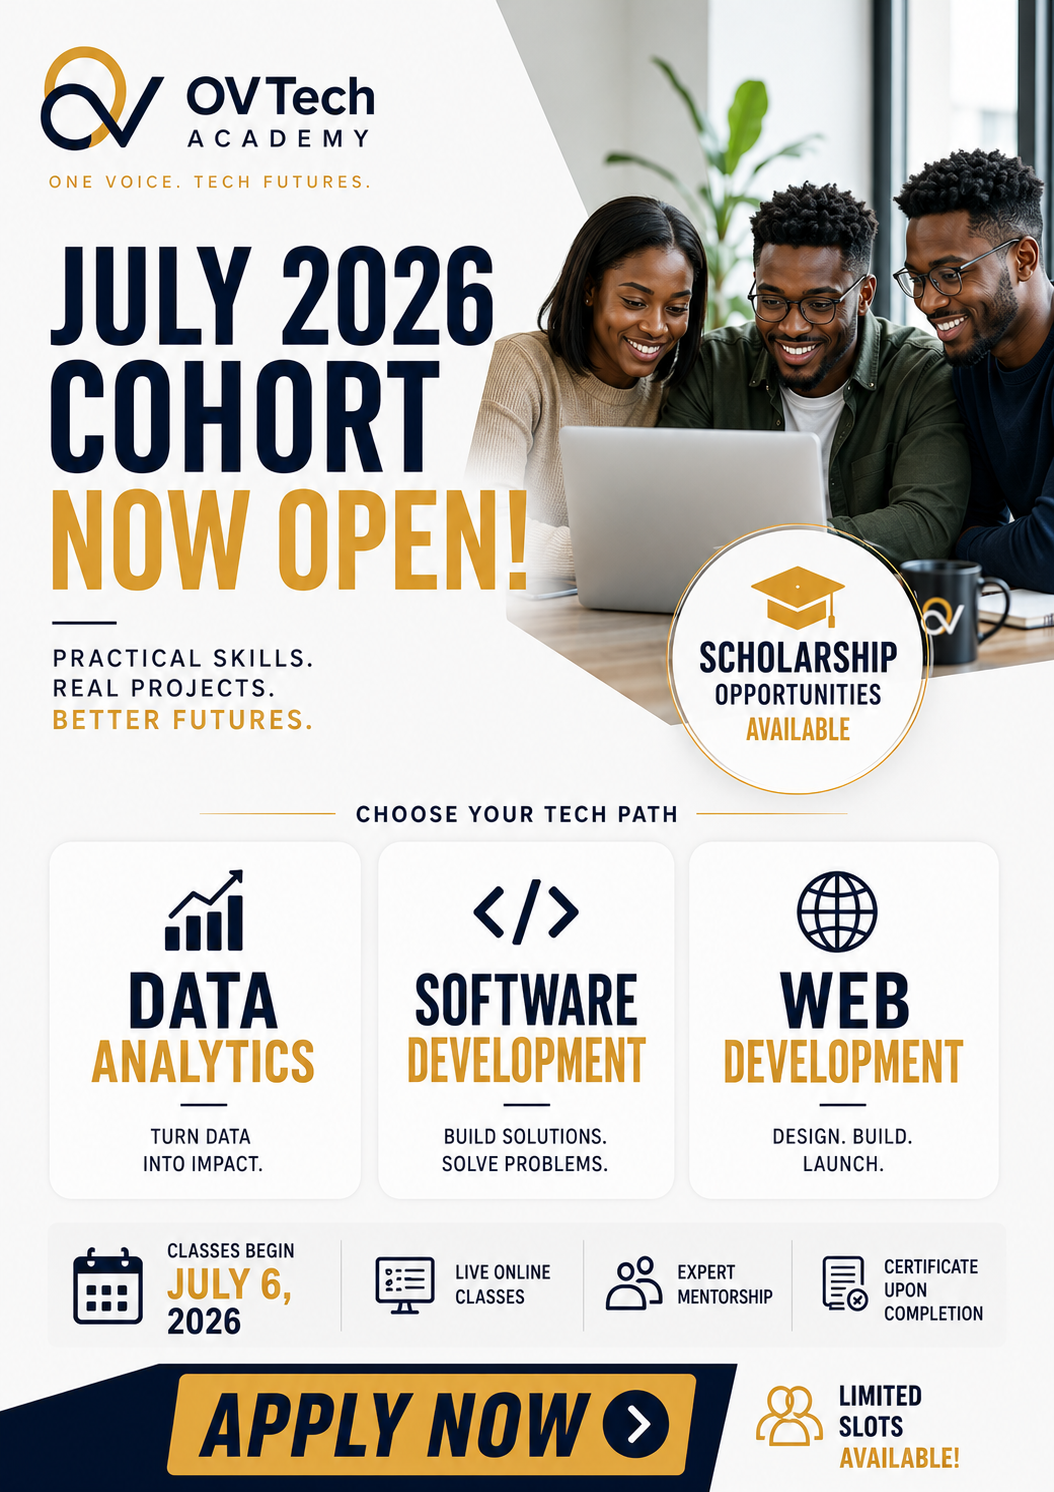
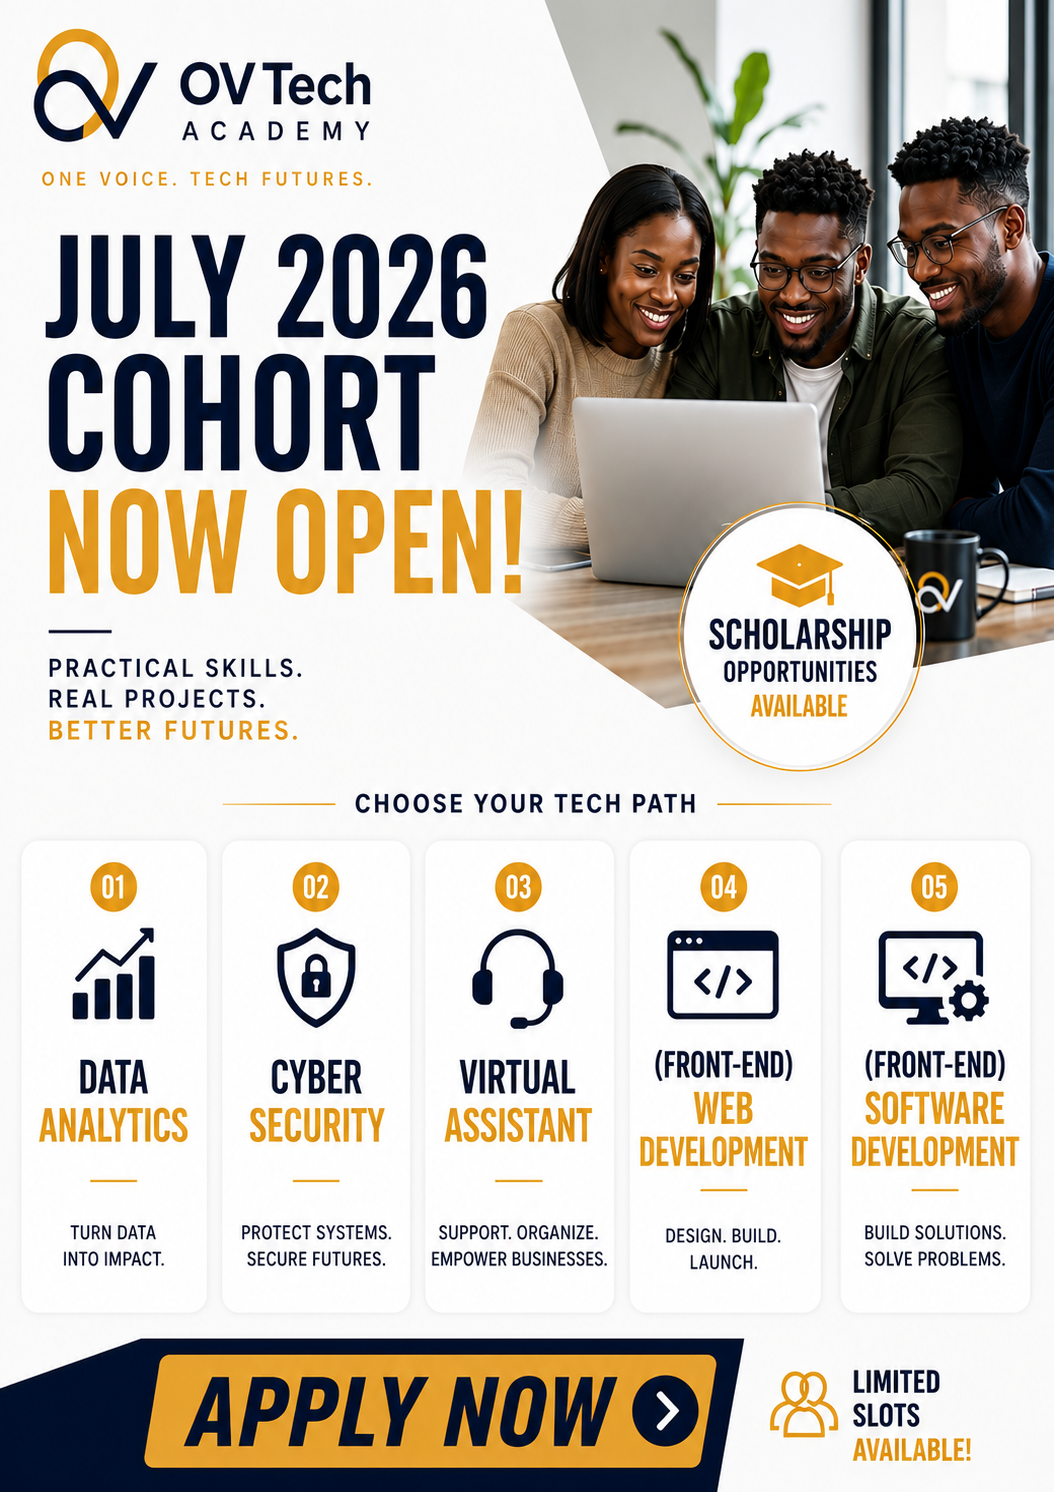
Added new courses

diff --git a/src/pages/Scholarship.jsx b/src/pages/Scholarship.jsx
@@ -27,10 +27,23 @@ const Scholarship = () => {
   });
 
   const handleChange = (e) => {
-    setFormData((prev) => ({
-      ...prev,
-      [e.target.name]: e.target.value,
-    }));
+    const { name, value } = e.target;
+
+    setFormData((prev) => {
+      const updated = {
+        ...prev,
+        [name]: value,
+      };
+
+      if (
+        name === "track" &&
+        ["Cyber Security", "Virtual Assistance"].includes(value)
+      ) {
+        updated.learningMethod = "";
+      }
+
+      return updated;
+    });
   };
 
   const handleSubmit = (e) => {
@@ -195,24 +208,6 @@ const Scholarship = () => {
               <option value="45+">45+</option>
             </select>
           </label>
-
-          <label>
-            Preferred Learning Method
-            <select
-              name="learningMethod"
-              required
-              value={formData.learningMethod}
-              onChange={handleChange}
-            >
-              <option value="" disabled>
-                Select learning method
-              </option>
-              <option value="Live Online Classes">Live Online Classes</option>
-              <option value="Self-Paced Pre-recorded Videos">
-                Self-Paced Pre-recorded Videos
-              </option>
-            </select>
-          </label>
         </div>
 
         <div className="sch-radio-group">
@@ -245,13 +240,60 @@ const Scholarship = () => {
             <input
               type="radio"
               name="track"
+              value="Cyber Security"
+              checked={formData.track === "Cyber Security"}
+              onChange={handleChange}
+            />
+            Cyber Security
+          </label>
+
+          <label>
+            <input
+              type="radio"
+              name="track"
               value="Web Development"
               checked={formData.track === "Web Development"}
               onChange={handleChange}
             />
             Web Development
           </label>
+
+          <label>
+            <input
+              type="radio"
+              name="track"
+              value="Virtual Assistance"
+              checked={formData.track === "Virtual Assistance"}
+              onChange={handleChange}
+            />
+            Virtual Assistance
+          </label>
         </div>
+        {[
+          "Data Analytics",
+          "Software Development (Frontend)",
+          "Web Development",
+        ].includes(formData.track) && (
+          <label className="sch-full">
+            Preferred Learning Method
+            <select
+              name="learningMethod"
+              required
+              value={formData.learningMethod}
+              onChange={handleChange}
+            >
+              <option value="" disabled>
+                Select learning method
+              </option>
+
+              <option value="Live Online Classes">Live Online Classes</option>
+
+              <option value="Self-Paced Pre-recorded Videos">
+                Self-Paced Pre-recorded Videos
+              </option>
+            </select>
+          </label>
+        )}
 
         <label className="sch-full">
           Why do you want this scholarship?
@@ -289,6 +331,7 @@ const Scholarship = () => {
           placeholder="Referral Code (Optional)"
           value={formData.referralCode}
           onChange={handleChange}
+          style={{ marginBottom: "20px" }}
         />
 
         <button type="submit" className="sch-submit" disabled={isSubmitting}>

diff --git a/src/data/courses.js b/src/data/courses.js
@@ -109,9 +109,22 @@ const courses = [
     tuitionFee: "₦250,000",
     scholarshipFee: "Scholarship Available",
     icon: "🗂️",
+    image: "/va.png",
+    alt: "Virtual Assistance",
+    imageClass: "ov-va-img",
     featured: false,
-    tools: ["Google Workspace", "Scheduling", "CRM", "Communication", "Productivity Tools"],
-    projects: ["Client Inbox Workflow", "Calendar Management System", "Customer Support Playbook"],
+    tools: [
+      "Google Workspace",
+      "Scheduling",
+      "CRM",
+      "Communication",
+      "Productivity Tools",
+    ],
+    projects: [
+      "Client Inbox Workflow",
+      "Calendar Management System",
+      "Customer Support Playbook",
+    ],
     outline: [
       "Professional Communication",
       "Administrative Support",
@@ -132,10 +145,22 @@ const courses = [
     tuitionFee: "₦250,000",
     scholarshipFee: "Scholarship Available",
     icon: "🔐",
+    image: "/cyber.png",
+    alt: "Cyber Security",
+    imageClass: "ov-cyber-img",
     featured: true,
     featuredOrder: 2,
-    tools: ["Network Security", "Threat Detection", "Digital Safety", "Security Tools"],
-    projects: ["Security Awareness Plan", "Network Safety Checklist", "Threat Detection Lab"],
+    tools: [
+      "Network Security",
+      "Threat Detection",
+      "Digital Safety",
+      "Security Tools",
+    ],
+    projects: [
+      "Security Awareness Plan",
+      "Network Safety Checklist",
+      "Threat Detection Lab",
+    ],
     outline: [
       "Cybersecurity Fundamentals",
       "Digital Safety Practices",

diff --git a/src/pages/Home.jsx b/src/pages/Home.jsx
@@ -397,7 +397,7 @@ const Home = () => {
       <section className="ov-stats-section">
         <div className="ov-stats-wrapper">
           <div>
-            <h3>3</h3>
+            <h3>5</h3>
             <p>Career-Focused Learning Paths</p>
           </div>
 
@@ -703,7 +703,7 @@ const Home = () => {
             </div>
 
             <div>
-              <h3>3</h3>
+              <h3>5</h3>
               <p>Career-focused learning paths to choose from</p>
             </div>
 

diff --git a/src/components/Footer.jsx b/src/components/Footer.jsx
@@ -75,7 +75,8 @@ const Footer = () => {
           <h4>Programs</h4>
           <a href="/courses">Data Analytics</a>
           <a href="/courses">Front-End Development</a>
-          <a href="/courses">Software Development</a>
+          <a href="/courses">Virtual Assistance</a>
+          <a href="/courses">Cyber Security</a>
         </div>
 
         <div className="ov-footer-links">